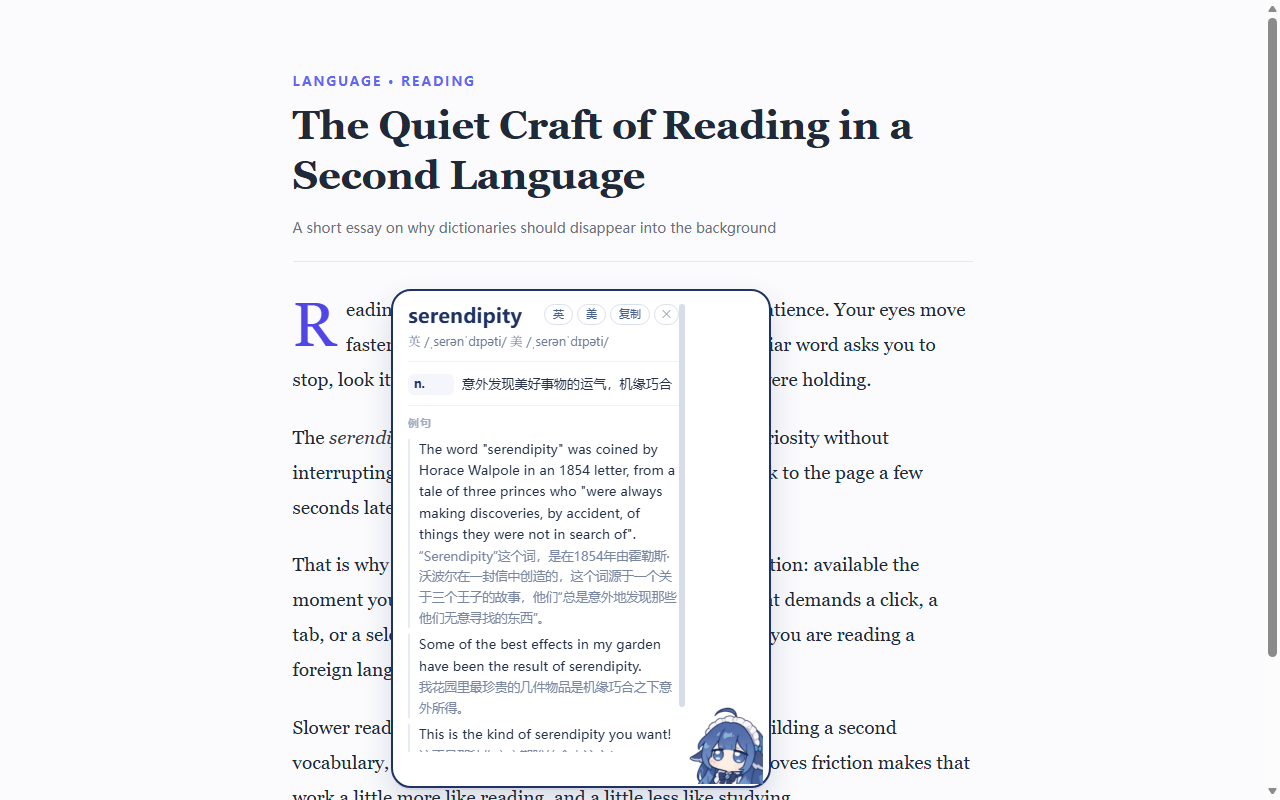
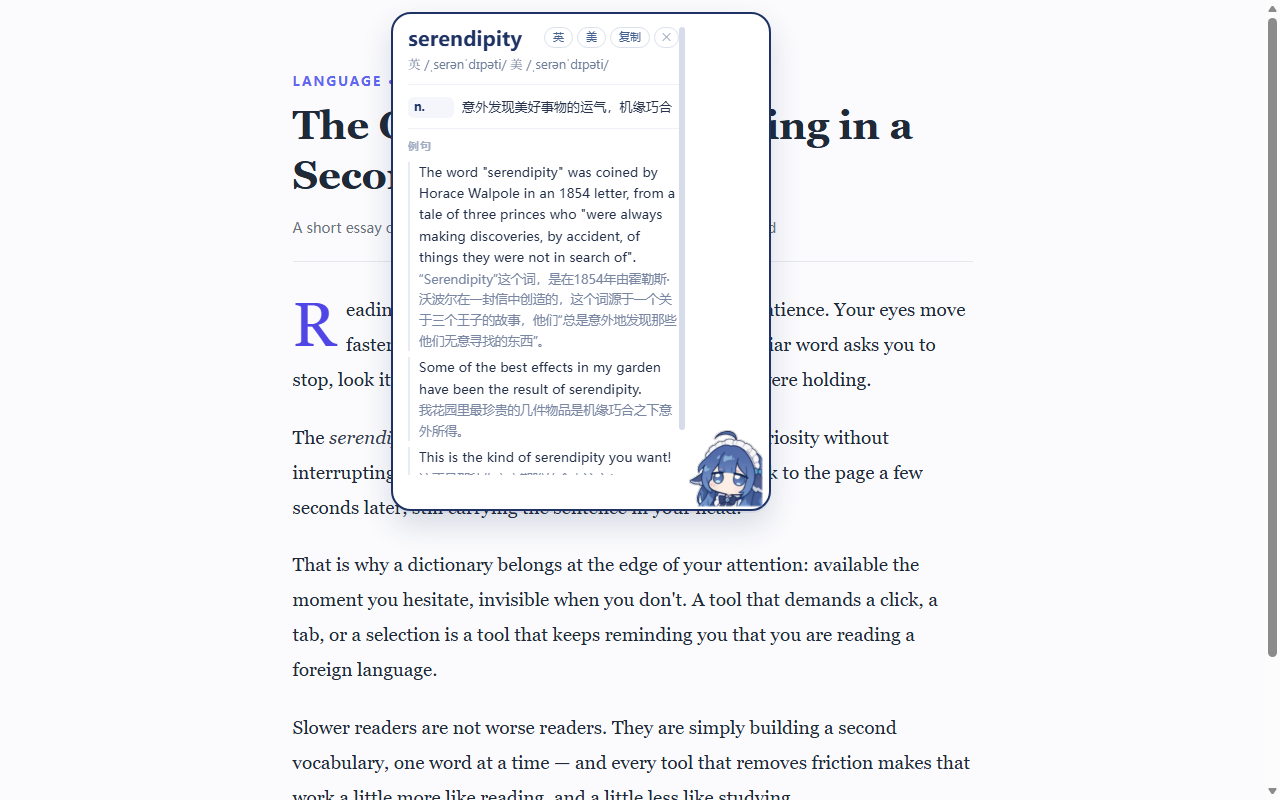
fix(hover): 判定起点提前到设定值的 60%；弹出的只可能是完整的翻译框（含压缩包 1.0.8）
用户两条要求：
① 「开始判定了的时间一定要短于设定的时间」—— scheduleFire 的触发点改为
   设定驻留的 60%（min 120ms）。等到卡片弹出，落点大致就压在设定时刻。
   （先试过 45% 预取：引入新时序后滚动用例稳定红 —— 取词正确但卡片被收走，
    连 cancelPendingHide 也救不回，故整段撤掉预取，回到单计时器 + 0.6 系数。）
② 「出来框就要保证是完整的鲸鱼娘对话翻译框而不是缓存框」——
   加载壳早已删除（显示入口恰好 2 处：renderResult + showMessage）；
   另修一个真竞态：hideCard(false) 排下的延迟隐藏会把随后弹出的新卡片收走，
   现在每次显示前 cancelPendingHide()。

商店包已随之重建：store/easy-translator-1.0.8.zip（打包自检 18/18）。

验证：真机 E2E 37/37、打包自检 18/18、npm test 28/28、结构 6/6。

Changed region(s): [[0.2812, 0.0312, 0.625, 1.0]]

diff --git a/content/hover-core.js b/content/hover-core.js
@@ -319,6 +319,7 @@
       }
       r.appendChild(foot);
 
+      cancelPendingHide();                 // 刚要显示：把待触发的延迟隐藏取消掉（否则会把新卡片收走）
       c.root.style.display = 'block';
       positionCard(anchor);
       setState('result', data.word, meta.engine || data.source || '');
@@ -350,6 +351,7 @@
       r.appendChild(head);
       var body = el('div', 'et-message', text);
       r.appendChild(body);
+      cancelPendingHide();
       c.root.style.display = 'block';
       positionCard(anchor || { x: 80, y: 80 });
       setState(kind === 'tip' ? 'tip' : 'message', title);
@@ -615,6 +617,12 @@
       if (timer) { win.clearTimeout(timer); timer = null; }
     }
 
+    /** 取消「待触发的延迟隐藏」—— 弹出内容时必须调用，
+     *  否则上一次 hideCard(false) 排下的隐藏会把刚显示的卡片收走（预取让渲染变同步后会踩到）。 */
+    function cancelPendingHide() {
+      if (hideTimer) { win.clearTimeout(hideTimer); hideTimer = null; }
+    }
+
     function setTarget(info) {
       if (current && current.key === info.key) {
         current.x = info.x;
@@ -650,11 +658,13 @@
       var delay = info.kind === 'image'
         ? ((settings.imageOcr && settings.imageOcr.dwellMs) || 1500)
         : (settings.dwellMs || 5000);
+      // 用户：「开始判定了的时间一定要短于设定的时间」—— 判定起点取设定值的 60%，
+      // 于是「等到弹出」大致就落在设定时刻，且弹出的一定是完整的翻译框（没有加载壳）。
       timer = win.setTimeout(function () {
         timer = null;
         if (stopped || !current || current.key !== info.key) return;
         fire(info);
-      }, delay);
+      }, Math.max(120, Math.round(delay * 0.6)));
     }
 
     function fire(info) {
@@ -691,8 +701,7 @@
     }
 
     function lookupText(word, info, myToken) {
-      // 用户：「不要先弹一个空白方框」—— 查到内容之前**完全不显示**，
-      // 只记状态（加载壳曾是 et-loading 的空白卡片，看着像空方框）。
+      // 用户：「不要先弹一个空白方框」—— 查到内容之前**完全不显示**，只记状态。
       setState('loading', word);
       sendMessage({ type: 'lookup', word: word }, function (res) {
         if (myToken !== token) return;
@@ -703,10 +712,7 @@
           showMessage('没有查到释义', '『' + word + '』在词典里没有中文释义（品牌词/缩写常这样）。', info, 'tip');
           return;
         }
-        renderResult(d, {
-          engine: res.engine,
-          cached: res.cached
-        }, info);
+        renderResult(d, { engine: res.engine, cached: res.cached }, info);   // 弹出的一定是**完整**的翻译框
       });
     }
 
